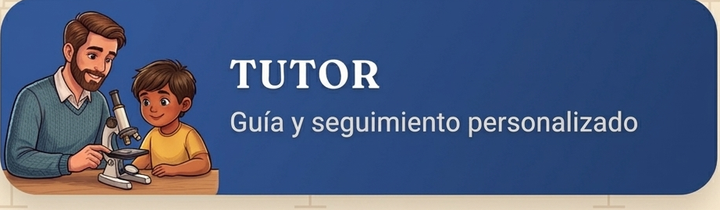
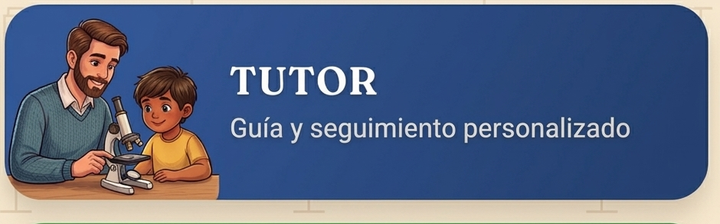
Add files via upload

diff --git a/frontend/index.html b/frontend/index.html
@@ -294,14 +294,14 @@
     width:100% !important;
     max-width:100% !important;
     padding:0 !important;
-    margin:0 0 14px 0 !important;
+    margin:0 0 10px 0 !important;
     border:none !important;
     outline:none !important;
     background:transparent !important;
     cursor:pointer;
-    border-radius:20px;
-    overflow:hidden;
-    box-shadow:0 4px 14px rgba(18,40,64,0.10);
+    border-radius:0 !important;
+    overflow:visible !important;
+    box-shadow:none !important;
     line-height:0 !important;
     -webkit-tap-highlight-color:transparent;
   }
